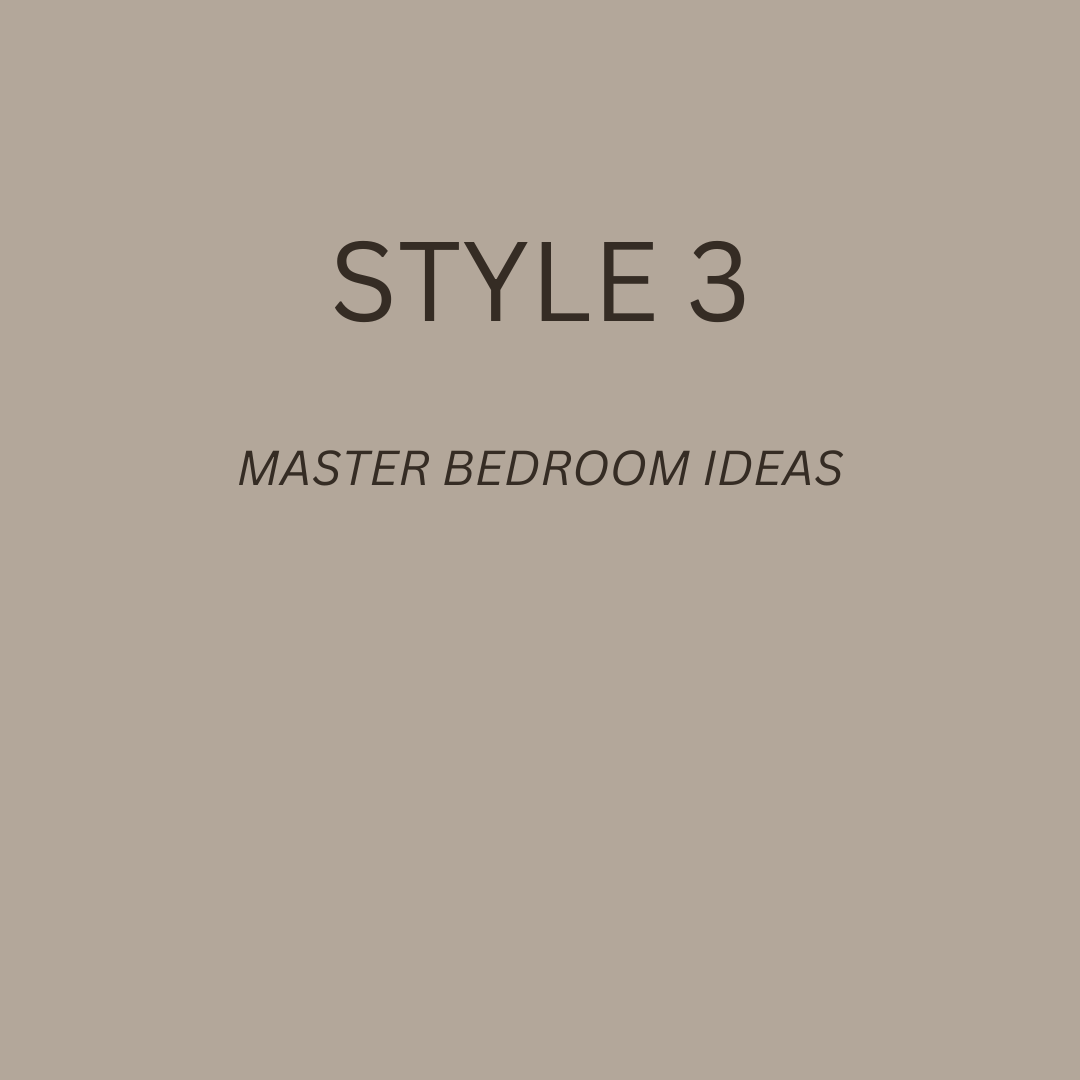
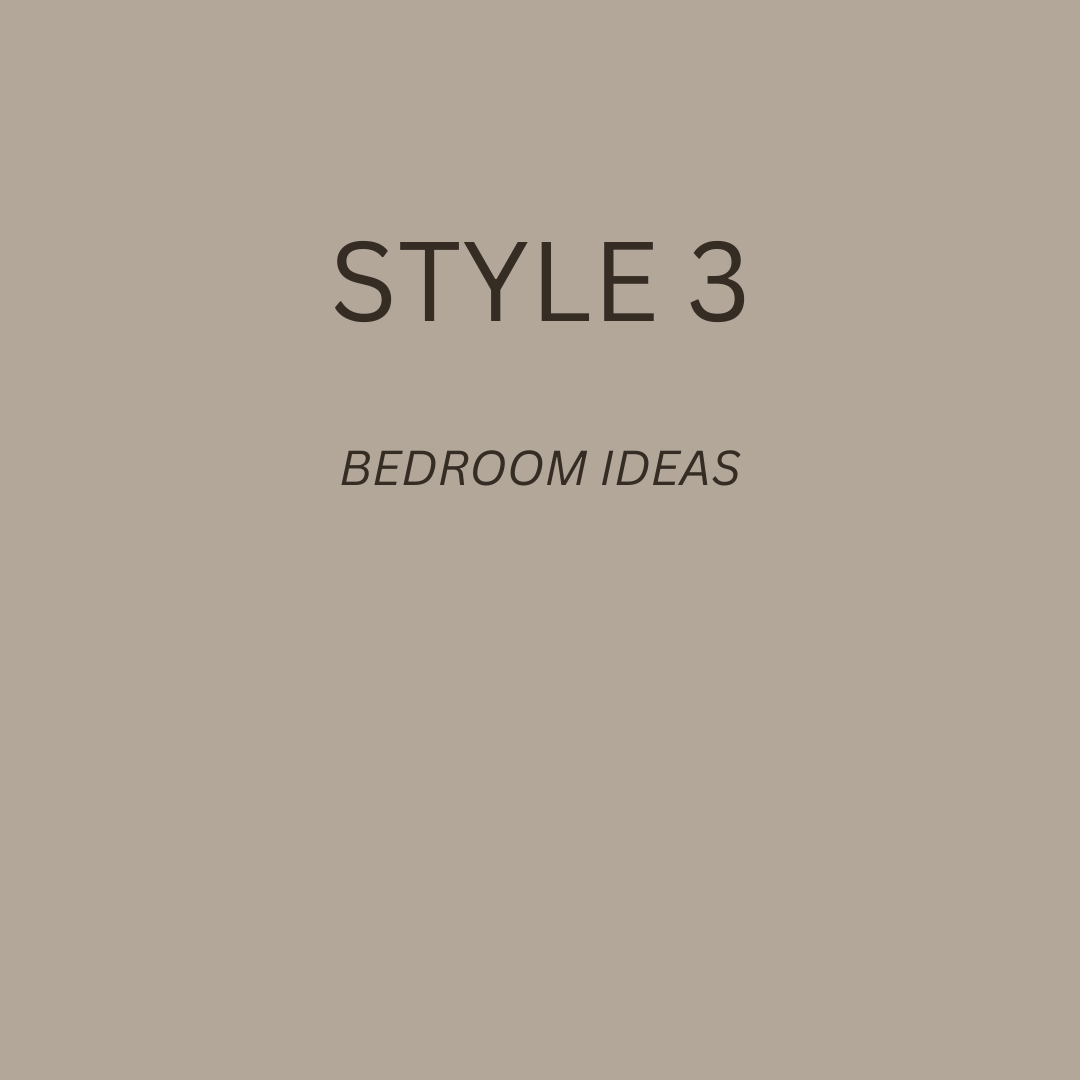
final updates

Changed region(s): [[0.2139, 0.3972, 0.7944, 0.4583]]

diff --git a/index.html b/index.html
@@ -23,7 +23,7 @@
                 Each furniture piece (e.g., sofa, armchairs, tables, ottomans) will match the colour theme, maintaining consistency across all items<br>
                 We'll fit the final choice to the layout plan and start implemaentation.
     <section>
-            <h2 class="section-header">Living Room</h2>
+            <h2 class="section-header">Living Room Furniture Styles</h2>
             <div class="room">
                 <h3>Style</h3>
                 <div class="horizontal-scroll-container">
@@ -67,7 +67,7 @@
             </div>      </section>      
       
     <section>
-        <h2 class="section-header">Section 2: Dining Room</h2>
+        <h2 class="section-header">Dining Room Furniture Styles</h2>
         <div class="room">
             <h3>Style</h3>
             <div class="horizontal-scroll-container">
@@ -110,7 +110,7 @@
     </section>
 
     <section> 
-        <h2 class="section-header">Section 3: Bedroom Furniture Styles </h2>
+        <h2 class="section-header">Bedroom Furniture Styles </h2>
         <div class="room">
                 <h3>Style</h3>
                 <div class="horizontal-scroll-container">
@@ -122,131 +122,83 @@
         
                 <!-- Images for Modern Minimalist style -->
                 <div class="style-images" id="bed-style1">
-                    <img src="images\bedroom\Master Bedroom style 1.png" alt="style3 Style Image">
-                    <a href="https://drive.google.com/file/d/1s-BwqbHlulhN5M5vggX3nyQSeJpAdZCp/view?usp=drive_link">
+                    <img src="images\bedroom\Bedroom style 1.png" alt="style3 Style Image">
+                    <a href="https://drive.google.com/file/d/10DCOizNumbW8TDox1qDb46jMhWEqlCpN/view?usp=sharing">
                         <button class="select-button">View Catalogue</button>
                     </a>
                 </div>
         
                 <!-- Images for style2 style -->
                 <div class="style-images" id="bed-style2">
-                    <img src="images\bedroom\Master Bedroom style 2.png" alt="style3 Style Image">
-                    <a href="https://drive.google.com/file/d/1RGnNc5Eycam7gSnX9TT5J4sKSh2wBs0n/view?usp=drive_link">
+                    <img src="images\bedroom\Bedroom style 2.png" alt="style3 Style Image">
+                    <a href="https://drive.google.com/file/d/1Qo5ziJpV4PoK0dsoDgVjrtJQWq3D4EwT/view?usp=sharing">
                         <button class="select-button">View Catalogue</button>
                     </a>
                 </div>
         
                 <!-- Images for style3 style -->
-                <div class="style-images" id="bed-style2">
+                <div class="style-images" id="bed-style3">
                     <img src="images\bedroom\Bedroom style 3.png" alt="style3 Style Image">
-                    <a href="https://drive.google.com/file/d/18XejDDaP0gekJFFKRW8ennHzQhNhVyzt/view?usp=drive_link">
+                    <a href="https://drive.google.com/file/d/11dwZvzfHE8_cBBSMdSGHJQbhZyFC95e7/view?usp=sharing">
                         <button class="select-button">View Catalogue</button>
                     </a>
                 </div>
                 <!-- Images for style4 style -->
-                <div class="style-images" id="bed-style2">
+                <div class="style-images" id="bed-style4">
                     <img src="images\bedroom\Bedroom style 4.png" alt="style3 Style Image">
-                    <a href="https://drive.google.com/file/d/1naJf2ka4GO9lT9hAYxYjdj0vXy0L5D4-/view?usp=drive_link">
+                    <a href="https://drive.google.com/file/d/1naJf2ka4GO9lT9hAYxYjdj0vXy0L5D4-/view?usp=sharing">
                         <button class="select-button">View Catalogue</button>
                     </a>
                 </div>
             </div> </section>
 
-
-
-    <section>
-        <h2 class="section-header">Section 4: Guest Room</h2>
-        <div class="room">
-            <h3>Style</h3>
-            <div class="horizontal-scroll-container">
-                <div class="horizontal-scroll-item" onclick="showGuestroomImages('guest-style1')">Style 1</div>
-                <div class="horizontal-scroll-item" onclick="showGuestroomImages('guest-style2')">Style 2</div>
-                <div class="horizontal-scroll-item" onclick="showGuestroomImages('guest-style3')">Style 3</div>
-                <div class="horizontal-scroll-item" onclick="showGuestroomImages('guest-style4')">Style 4</div>
-            </div>
-    
-            <!-- Images for Modern Minimalist style -->
-            <div class="style-images" id="guest-style1">
-                <img src="images\bedroom\bed.jpg" alt="style1 Style Image">
-                <button class="select-button" onclick="openPDF('path/to/modern-style.pdf')">Open PDF</button>
-            </div>
-    
-            <!-- Images for style2 style -->
-            <div class="style-images" id="guest-style2">
-                <img src="style21.jpg" alt="style2 Style Image">
-                <button class="select-button" onclick="openPDF('path/to/style2-style.pdf')">Open PDF</button>
-            </div>
-    
-            <!-- Images for style3 style -->
-            <div class="style-images" id="guest-style3">
-                <img src="style31.jpg" alt="style3 Style Image">
-                <button class="select-button" onclick="openPDF('path/to/style3-style.pdf')">Open PDF</button>
-            </div>
-    
-            <!-- Images for style4 style -->
-            <div class="style-images" id="guest-style4">
-                <img src="style41.jpg" alt="style4 Style Image">
-                <button class="select-button" onclick="openPDF('path/to/style4-style.pdf')">Open PDF</button>
-            </div>
-        </div> 
-    </section>
-
     <section>  <div class="room">
         <h3>Color Palette</h3>
         <div class="horizontal-scroll-container">
-            <div class="horizontal-scroll-item" onclick=" showLivingRoomPalettes('living-palette1')">Palette 1</div>
-            <div class="horizontal-scroll-item" onclick=" showLivingRoomPalettes('living-palette2')">Palette 2</div>
-            <div class="horizontal-scroll-item" onclick=" showLivingRoomPalettes('living-palette3')">Palette 3</div>
-            <div class="horizontal-scroll-item" onclick=" showLivingRoomPalettes('living-palette4')">Palette 4</div>
-            <div class="horizontal-scroll-item" onclick=" showLivingRoomPalettes('living-palette5')">Palette 5</div>
-            <div class="horizontal-scroll-item" onclick=" showLivingRoomPalettes('living-palette6')">Palette 6</div>
-            <div class="horizontal-scroll-item" onclick=" showLivingRoomPalettes('living-palette7')">Palette 7</div>
-            <div class="horizontal-scroll-item" onclick=" showLivingRoomPalettes('living-palette8')">Palette 8</div>
-            <div class="horizontal-scroll-item" onclick=" showLivingRoomPalettes('living-palette9')">Palette 9</div>
-            <div class="horizontal-scroll-item" onclick=" showLivingRoomPalettes('living-palette10')">Palette 10</div>                
+            <div class="horizontal-scroll-item" onclick=" ColourPalettes('palette1')">Palette 1</div>
+            <div class="horizontal-scroll-item" onclick=" ColourPalettes('palette2')">Palette 2</div>
+            <div class="horizontal-scroll-item" onclick=" ColourPalettes('palette3')">Palette 3</div>
+            <div class="horizontal-scroll-item" onclick=" ColourPalettes('palette4')">Palette 4</div>
+            <div class="horizontal-scroll-item" onclick=" ColourPalettes('palette5')">Palette 5</div>
+            <div class="horizontal-scroll-item" onclick=" ColourPalettes('palette6')">Palette 6</div>
+            <div class="horizontal-scroll-item" onclick=" ColourPalettes('palette7')">Palette 7</div>
+            <div class="horizontal-scroll-item" onclick=" ColourPalettes('palette8')">Palette 8</div>
+            <div class="horizontal-scroll-item" onclick=" ColourPalettes('palette9')">Palette 9</div>
+            <div class="horizontal-scroll-item" onclick=" ColourPalettes('palette10')">Palette 10</div>                
         </div>
-        <div class="palette-images" id="living-palette1">
+        <div class="palette-images" id="palette1">
             <img src="images\living_room\Earthy Neutrals.JPG" alt="Modern Minimalist Image">
         </div>
-        <div class="palette-images" id="living-palette2">
+        <div class="palette-images" id="palette2">
             <img src="images\living_room\Coastal Breeze.JPG" alt="Modern Minimalist Image">
         </div>
-        <div class="palette-images" id="living-palette3">
+        <div class="palette-images" id="palette3">
             <img src="images\living_room\Urban Chic.JPG" alt="Modern Minimalist Image">
         </div>
-        <div class="palette-images" id="living-palette4">
+        <div class="palette-images" id="palette4">
             <img src="images\living_room\Jewel Tones.JPG" alt="Modern Minimalist Image">
         </div>
-        <div class="palette-images" id="living-palette5">
+        <div class="palette-images" id="palette5">
             <img src="images\living_room\Rustic Warmth.JPG" alt="Modern Minimalist Image">
         </div>
-        <div class="palette-images" id="living-palette6">
+        <div class="palette-images" id="palette6">
             <img src="images\living_room\Urban Chic.JPG" alt="Modern Minimalist Image">
         </div>
-        <div class="palette-images" id="living-palette7">
+        <div class="palette-images" id="palette7">
             <img src="images\living_room\Desert Oasis.JPG" alt="Modern Minimalist Image">
         </div>
-        <div class="palette-images" id="living-palette8">
+        <div class="palette-images" id="palette8">
             <img src="images\living_room\Elegant Pastels.JPG" alt="Modern Minimalist Image">
         </div>
-        <div class="palette-images" id="living-palette9">
+        <div class="palette-images" id="palette9">
             <img src="images\living_room\Art Deco Luxe.JPG" alt="Modern Minimalist Image">
         </div>
-        <div class="palette-images" id="living-palette10">
+        <div class="palette-images" id="palette10">
             <img src="images/living_room/style3 Vibrance.JPG" alt="Modern Minimalist Image">
         </div>
     </div></section>
 
-    <section>            
-        <div class="room">
-            <h3>Mattresses</h3>
-            <ul>
-                <li>Memory foam</li>
-                <li>Hybrid</li>
-                <li>Innerspring</li>
-            </ul>
-        </div>
-    </section>
+
 
 </body>
 </html>
@@ -256,7 +208,7 @@
    window.onload = function() {
     // Call the specific functions for each section
     showLivingRoomImages('living-style1');  // Default Living Room style
-    showLivingRoomPalettes('living-palette1');
+    ColourPalettes('palette1');
     showBedroomImages('bed-style1');         // Default Bedroom style
     showDiningRoomImages('dining-style2'); // Default Dining Room style
     showGuestroomImages('office-style3');     // Default Office style
@@ -277,9 +229,9 @@ function showLivingRoomImages(style) {
     }
 }
 
-function showLivingRoomPalettes(style) {
+function ColourPalettes(style) {
     // Hide all Living Room images
-    const allLivingRoomPalettes = document.querySelectorAll('#living-palette1, #living-palette2, #living-palette3, #living-palette4, #living-palette5, #living-palette6, #living-palette7, #living-palette8, #living-palette9, #living-palette10');
+    const allLivingRoomPalettes = document.querySelectorAll('#palette1, #palette2, #palette3, #palette4, #palette5, #palette6, #palette7, #palette8, #palette9, #palette10');
     allLivingRoomPalettes.forEach(function(imageDiv) {
         imageDiv.style.display = 'none';
     });
@@ -320,21 +272,5 @@ function showDiningRoomImages(style) {
         selectedDiningRoomImage.style.display = 'block';
     }
 }
-
-// Office Style images function
-function showGuestroomImages(style) {
-    // Hide all Office images
-    const allOfficeImages = document.querySelectorAll('#office-style1, #office-modern, #office-style2, #office-style3');
-    allOfficeImages.forEach(function(imageDiv) {
-        imageDiv.style.display = 'none';
-    });
-
-    // Show the selected Office style's image
-    const selectedOfficeImage = document.getElementById(style);
-    if (selectedOfficeImage) {
-        selectedOfficeImage.style.display = 'block';
-    }
-}
-
 
 </script>
